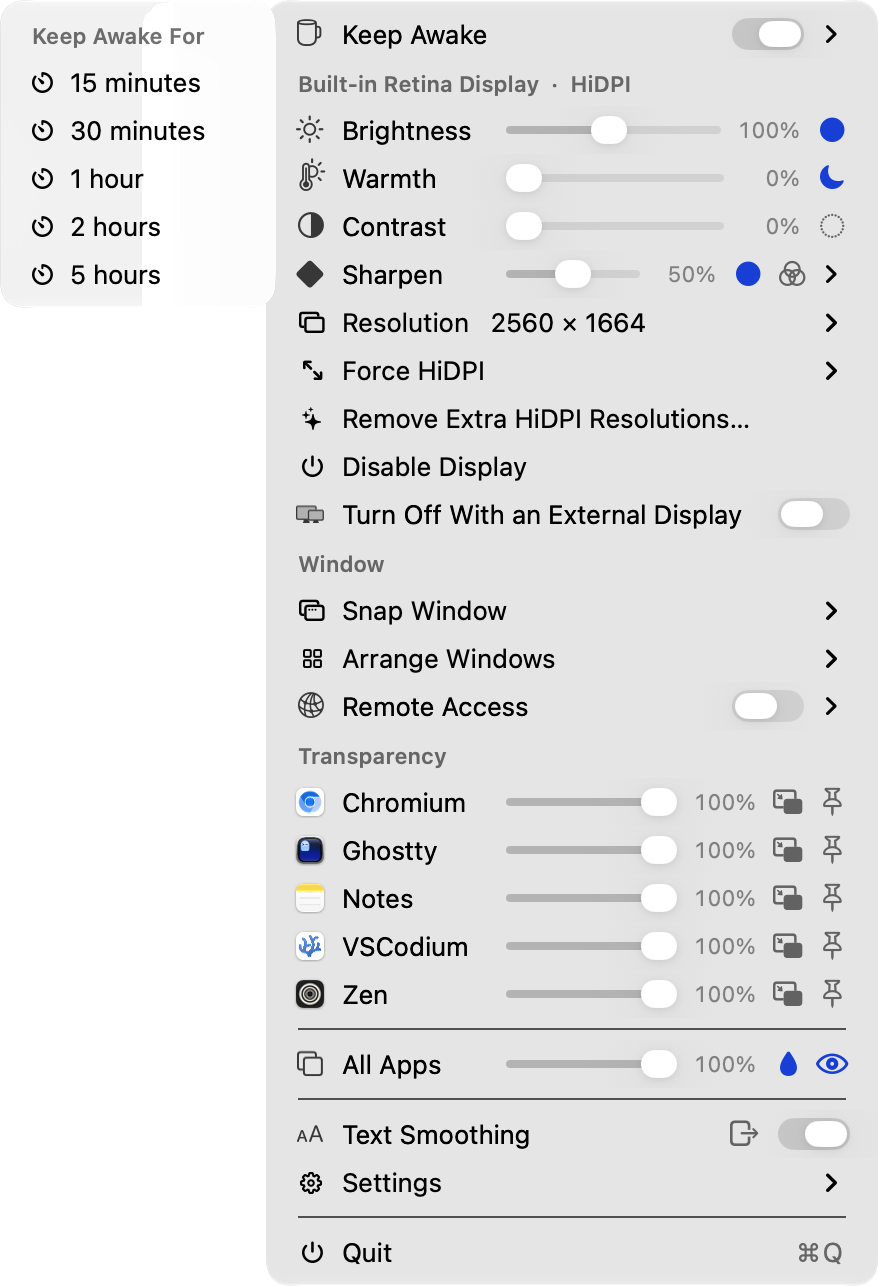
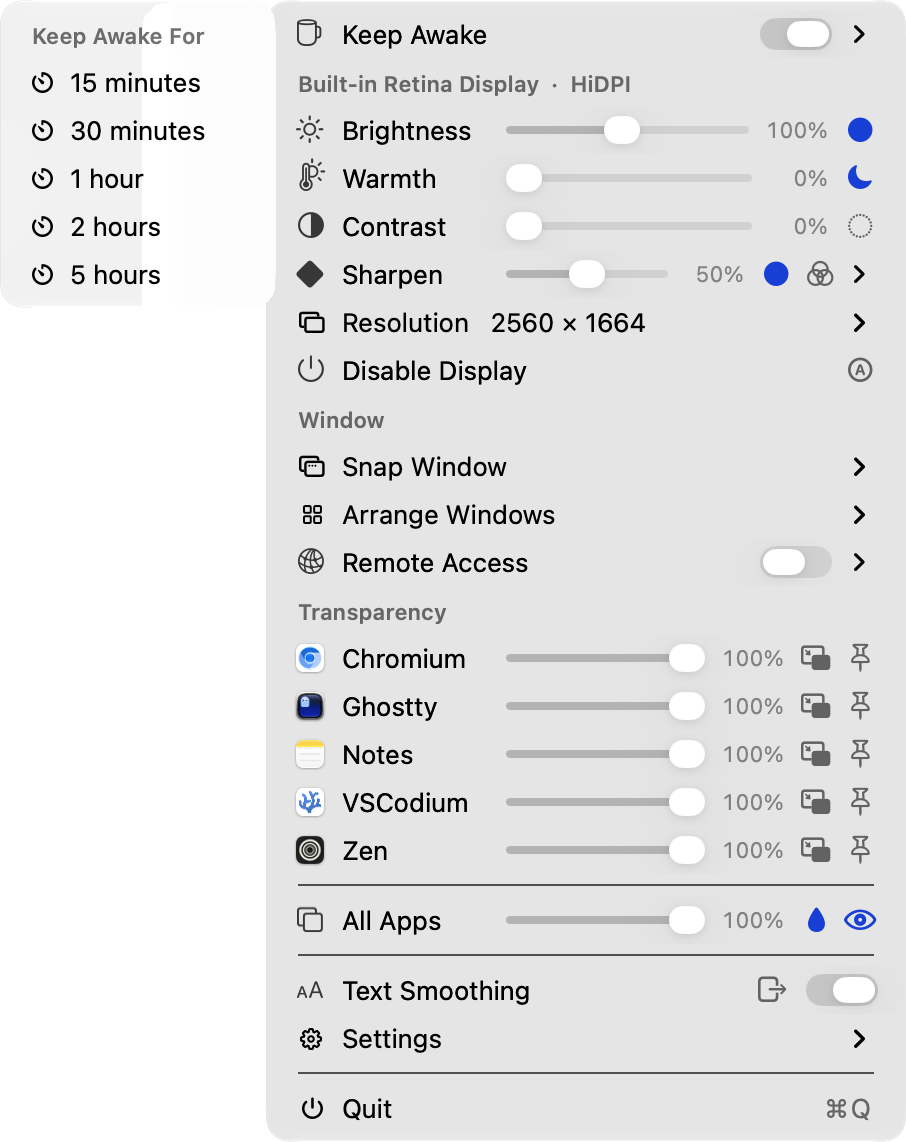
v2.8.20: one Resolution menu, combined Disable Display row

diff --git a/docs/index.html b/docs/index.html
@@ -35,7 +35,7 @@
         "processorRequirements": "Apple Silicon",
         "url": "https://displaydeck.pyxis3.ai/",
         "downloadUrl": "https://github.com/pyxis3-ai/displaydeck/releases/latest",
-        "softwareVersion": "2.8.19",
+        "softwareVersion": "2.8.20",
         "license": "https://opensource.org/licenses/MIT",
         "author": { "@type": "Organization", "name": "PYXIS3" },
         "description": "A tiny macOS menu-bar app: disable screens, force HiDPI, boost brightness past 100%, warm the colors (auto at night), snap and tile windows, make any window transparent or float, reach your Mac from anywhere, and keep it awake.",

diff --git a/src/app/AppDelegate.m b/src/app/AppDelegate.m
@@ -254,6 +254,66 @@ static NSAttributedString *ddColumns(NSArray<NSString *> *cols, NSArray<NSNumber
             initWithString:[cols componentsJoinedByString:@"\t"] attributes:attrs];
 }
 
+// A menu row that behaves like an ordinary item - highlights under the pointer
+// and runs its action on click - while leaving room for a button at its right.
+@interface DDActionRowView : NSView
+@property (nonatomic, strong) NSImageView *iconView;
+@property (nonatomic, strong) NSTextField *label;
+@property (nonatomic, copy) void (^onClick)(void);
+@property (nonatomic) BOOL hovered;
+@end
+
+@implementation DDActionRowView
+
+- (void)updateTrackingAreas {
+    [super updateTrackingAreas];
+    for (NSTrackingArea *area in self.trackingAreas) [self removeTrackingArea:area];
+    [self addTrackingArea:[[NSTrackingArea alloc] initWithRect:NSZeroRect
+        options:NSTrackingMouseEnteredAndExited | NSTrackingActiveAlways | NSTrackingInVisibleRect
+          owner:self userInfo:nil]];
+}
+
+- (void)setHovered:(BOOL)hovered {
+    _hovered = hovered;
+    self.label.textColor = hovered ? NSColor.selectedMenuItemTextColor : NSColor.labelColor;
+    self.iconView.contentTintColor = hovered ? NSColor.selectedMenuItemTextColor : nil;
+    // Keep the row's button readable on the highlight colour.
+    for (NSView *view in self.subviews) {
+        if (![view isKindOfClass:[NSButton class]]) continue;
+        NSButton *button = (NSButton *)view;
+        BOOL on = (button.state == NSControlStateValueOn);
+        NSString *symbol = objc_getAssociatedObject(button, on ? kDDOnSymKey : kDDOffSymKey);
+        if (!symbol) continue;
+        NSColor *color = hovered ? NSColor.selectedMenuItemTextColor
+                                 : (on ? NSColor.controlAccentColor : NSColor.secondaryLabelColor);
+        button.image = ddTintedSymbol(symbol, color);
+    }
+    self.needsDisplay = YES;
+}
+
+- (void)mouseEntered:(NSEvent *)event { (void)event; self.hovered = YES; }
+- (void)mouseExited:(NSEvent *)event  { (void)event; self.hovered = NO; }
+
+- (void)viewDidMoveToWindow {
+    [super viewDidMoveToWindow];
+    self.hovered = NO;
+}
+
+- (void)drawRect:(NSRect)dirtyRect {
+    (void)dirtyRect;
+    if (!self.hovered) return;
+    [NSColor.selectedContentBackgroundColor setFill];
+    [[NSBezierPath bezierPathWithRoundedRect:NSInsetRect(self.bounds, 5, 0) xRadius:8 yRadius:8] fill];
+}
+
+- (void)mouseUp:(NSEvent *)event {
+    (void)event;
+    [self.enclosingMenuItem.menu cancelTracking];
+    if (self.onClick) self.onClick();
+}
+
+@end
+
 @interface AppDelegate () <UNUserNotificationCenterDelegate, NSMenuDelegate>
 @property (nonatomic, strong) NSStatusItem *statusItem;
 @property (nonatomic, strong) NSMenu *mainMenu;
@@ -397,6 +457,8 @@ static NSAttributedString *ddColumns(NSArray<NSString *> *cols, NSArray<NSNumber
 
     self.mainMenu = [[NSMenu alloc] init];
     self.mainMenu.autoenablesItems = NO;
+    // Wide enough that every slider keeps a usable length.
+    self.mainMenu.minimumWidth = 320;
     self.mainMenu.delegate = self;
 
     self.statusItem.button.target = self;
@@ -909,15 +971,16 @@ static NSAttributedString *ddColumns(NSArray<NSString *> *cols, NSArray<NSNumber
         NSArray<DDDisplayMode *> *options =
             [self.displayManager forceHiDPIOptionsForDisplay:display.displayID];
         DDDisplayMode *target = [self.displayManager forcedTargetForDisplay:display.displayID];
-        NSMutableString *title = [NSMutableString stringWithString:@"Force HiDPI"];
+        NSMutableString *title = [NSMutableString stringWithString:@"Resolution"];
         if (target) [title appendFormat:@"   %@", ddLogicalString(target.logicalWidth, target.logicalHeight)];
         NSMenuItem *fh = [[NSMenuItem alloc] initWithTitle:title action:nil keyEquivalent:@""];
-        fh.image = ddSymbol(@"arrow.up.left.and.arrow.down.right");
+        fh.image = ddSymbol(@"rectangle.on.rectangle");
         fh.submenu = [self buildForceHiDPISubmenuForDisplay:display.displayID options:options];
+        [fh.submenu addItem:[NSMenuItem separatorItem]];
+        [fh.submenu addItem:[self actionItem:@"Stop Forced HiDPI"
+                                      action:@selector(stopForcedHiDPI:) displayID:display.displayID
+                                      symbol:@"arrow.uturn.backward"]];
         [menu addItem:fh];
-        [menu addItem:[self actionItem:@"Stop Forced HiDPI"
-                                action:@selector(stopForcedHiDPI:) displayID:display.displayID
-                                symbol:@"arrow.uturn.backward"]];
         return;
     }
     if (!display.isActive) {
@@ -948,31 +1011,59 @@ static NSAttributedString *ddColumns(NSArray<NSString *> *cols, NSArray<NSNumber
         res.submenu = [self buildModesSubmenuForDisplay:display.displayID modes:modes];
         [menu addItem:res];
     }
-    if (NSClassFromString(@"CGVirtualDisplay") != nil) {
-        NSArray<DDDisplayMode *> *options =
-            [self.displayManager forceHiDPIOptionsForDisplay:display.displayID];
-        if (options.count > 0) {
-            NSMenuItem *fh = [[NSMenuItem alloc] initWithTitle:@"Force HiDPI" action:nil keyEquivalent:@""];
-            fh.image = ddSymbol(@"arrow.up.left.and.arrow.down.right");
-            fh.submenu = [self buildForceHiDPISubmenuForDisplay:display.displayID options:options];
-            [menu addItem:fh];
-        }
-    }
-
-    BOOL installed = [[HiDPIInjector shared] isInstalledForDisplay:display.displayID];
-    [menu addItem:[self actionItem:(installed
-                                    ? @"Remove Extra HiDPI Resolutions\u2026"
-                                    : @"Install Extra HiDPI Resolutions\u2026")
-                            action:(installed ? @selector(uninstallCrispHiDPI:)
-                                              : @selector(installCrispHiDPI:))
-                         displayID:display.displayID
-                            symbol:@"sparkles"]];
-    [menu addItem:[self actionItem:@"Disable Display"
-                            action:@selector(disableDisplay:) displayID:display.displayID
-                            symbol:@"power"]];
     if (display.isBuiltIn) {
-        [self addInlineSwitch:menu title:@"Turn Off With an External Display" icon:@"display.2" key:kAutoManage];
+        // One row for both: click it to turn the display off now, or use its
+        // button to have that happen whenever an external display connects.
+        NSButton *automatic = [self prefToggle:kAutoManage symbol:@"a.circle" onSymbol:@"a.circle.fill"
+                                       tooltip:@"Turn off automatically when an external display connects"];
+        CGDirectDisplayID did = display.displayID;
+        __weak __typeof(self) weakSelf = self;
+        [menu addItem:[self actionRow:@"Disable Display" icon:@"power" accessory:automatic onClick:^{
+            NSMenuItem *carrier = [[NSMenuItem alloc] init];
+            carrier.representedObject = @(did);
+            dispatch_async(dispatch_get_main_queue(), ^{ [weakSelf disableDisplay:carrier]; });
+        }]];
+    } else {
+        [menu addItem:[self actionItem:@"Disable Display"
+                                action:@selector(disableDisplay:) displayID:display.displayID
+                                symbol:@"power"]];
     }
+}
+
+- (NSMenuItem *)actionRow:(NSString *)label icon:(NSString *)symbol
+                accessory:(NSButton *)accessory onClick:(void (^)(void))onClick {
+    DDActionRowView *row = [[DDActionRowView alloc] initWithFrame:NSMakeRect(0, 0, kSliderRowWidth, kRowHeight)];
+    row.onClick = onClick;
+
+    row.iconView = [NSImageView imageViewWithImage:ddSymbol(symbol)];
+    row.iconView.imageScaling = NSImageScaleProportionallyDown;
+    row.iconView.translatesAutoresizingMaskIntoConstraints = NO;
+    [row addSubview:row.iconView];
+
+    row.label = [NSTextField labelWithString:label];
+    row.label.font = [NSFont menuFontOfSize:13];
+    row.label.translatesAutoresizingMaskIntoConstraints = NO;
+    [row addSubview:row.label];
+    [row addSubview:accessory];
+
+    [NSLayoutConstraint activateConstraints:@[
+        [row.heightAnchor constraintEqualToConstant:kRowHeight],
+        [row.iconView.leadingAnchor constraintEqualToAnchor:row.leadingAnchor constant:14],
+        [row.iconView.centerYAnchor constraintEqualToAnchor:row.centerYAnchor],
+        [row.iconView.widthAnchor constraintEqualToConstant:16],
+        [row.iconView.heightAnchor constraintEqualToConstant:16],
+        [row.label.leadingAnchor constraintEqualToAnchor:row.iconView.trailingAnchor constant:8],
+        [row.label.centerYAnchor constraintEqualToAnchor:row.centerYAnchor],
+        [accessory.trailingAnchor constraintEqualToAnchor:row.trailingAnchor constant:-kRowEdgeInset],
+        [accessory.centerYAnchor constraintEqualToAnchor:row.centerYAnchor],
+        [accessory.widthAnchor constraintEqualToConstant:kAccessoryWidth],
+    ]];
+
+    row.autoresizingMask = NSViewWidthSizable;
+    NSMenuItem *item = [[NSMenuItem alloc] initWithTitle:label action:nil keyEquivalent:@""];
+    item.tag = kSliderItemTag;
+    item.view = row;
+    return item;
 }
 
 - (void)addBrightnessWarmthToMenu:(NSMenu *)menu display:(DDDisplayInfo *)display {
@@ -1156,16 +1247,6 @@ static NSAttributedString *ddColumns(NSArray<NSString *> *cols, NSArray<NSNumber
     [menu addItem:all];
 }
 
-// A setting shown where it applies, as a switch. (A checkmark item here would
-// make the menu reserve a checkmark column and push every plain row sideways.)
-- (void)addInlineSwitch:(NSMenu *)menu title:(NSString *)title icon:(NSString *)symbol key:(NSString *)key {
-    NSMenuItem *item = [self switchRow:title icon:symbol on:[self pref:key]
-                                action:@selector(prefSwitchToggled:) width:kSliderRowWidth];
-    for (NSView *view in item.view.subviews)
-        if ([view isKindOfClass:[NSSwitch class]]) view.identifier = key;
-    [menu addItem:item];
-}
-
 // A small on/off button for a setting, for a row's button slots.
 - (NSButton *)prefToggle:(NSString *)key symbol:(NSString *)off onSymbol:(NSString *)on tooltip:(NSString *)tooltip {
     NSButton *button = [self rowToggleWithSymbol:off onSymbol:on state:[self pref:key] tag:0
@@ -1178,13 +1259,11 @@ static NSAttributedString *ddColumns(NSArray<NSString *> *cols, NSArray<NSNumber
     BOOL on = (sender.state == NSControlStateValueOn);
     [NSUserDefaults.standardUserDefaults setBool:on forKey:sender.identifier];
     ddSetToggle(sender, on);
+    if ([sender.superview isKindOfClass:[DDActionRowView class]]) {
+        DDActionRowView *row = (DDActionRowView *)sender.superview;
+        row.hovered = row.hovered;
+    }
     [self prefChanged:sender.identifier];
-}
-
-- (void)prefSwitchToggled:(NSSwitch *)sender {
-    NSString *key = sender.identifier;
-    [NSUserDefaults.standardUserDefaults setBool:(sender.state == NSControlStateValueOn) forKey:key];
-    [self prefChanged:key];
 }
 
 - (NSButton *)rowToggleWithSymbol:(NSString *)offSymbol
@@ -1684,11 +1763,36 @@ static NSAttributedString *ddColumns(NSArray<NSString *> *cols, NSArray<NSNumber
         [submenu addItem:item];
     }
 
+    // Sizes the panel does not offer itself, reached by forcing HiDPI through a
+    // virtual display. Same list, so there is one place to pick a size.
+    NSArray<DDDisplayMode *> *forceOptions = NSClassFromString(@"CGVirtualDisplay")
+        ? [self.displayManager forceHiDPIOptionsForDisplay:displayID] : @[];
+    if (forceOptions.count > 0) {
+        [submenu addItem:[NSMenuItem sectionHeaderWithTitle:@"Force HiDPI"]];
+        for (DDDisplayMode *mode in forceOptions) {
+            NSMenuItem *item = [[NSMenuItem alloc] initWithTitle:@""
+                action:@selector(forceHiDPIAtMode:) keyEquivalent:@""];
+            item.target = self;
+            item.representedObject = @{ @"displayID": @(displayID), @"mode": mode };
+            item.attributedTitle = ddColumns(@[ddLogicalString(mode.logicalWidth, mode.logicalHeight), @"Forced",
+                                               ddRateString(mode.refreshRate, @"-")],
+                                             @[@(kModeTabType), @(kModeTabRate)], font, nil);
+            [submenu addItem:item];
+        }
+    }
+
     [submenu addItem:[NSMenuItem separatorItem]];
     [self addLabelToMenu:submenu title:@"★ = panel-native (crispest)"];
     [self addLabelToMenu:submenu title:kLargerSizesHint];
+    if (forceOptions.count > 0)
+        [self addLabelToMenu:submenu title:@"Forced sizes come back after a restart"];
     [submenu addItem:[NSMenuItem separatorItem]];
     [submenu addItem:[self checkItemWithTitle:@"Show Non-HiDPI Resolutions" key:kShowResolutions symbol:@"eye"]];
+    BOOL installed = [[HiDPIInjector shared] isInstalledForDisplay:displayID];
+    [submenu addItem:[self actionItem:(installed ? @"Remove Extra HiDPI Resolutions\u2026"
+                                                 : @"Install Extra HiDPI Resolutions\u2026")
+                               action:(installed ? @selector(uninstallCrispHiDPI:) : @selector(installCrispHiDPI:))
+                            displayID:displayID symbol:@"sparkles"]];
 
     return submenu;
 }

diff --git a/README.md b/README.md
@@ -7,7 +7,7 @@
 
 Disable & enable screens, Force HiDPI, brightness with EDR boost, color warmth (with auto-night), window tiling/snapping, transparency, blur, keep-on-top & picture-in-picture, keep-awake, remote access.
 
-[![Release](https://img.shields.io/badge/release-v2.8.19-2ea44f?style=flat-square)](https://github.com/pyxis3-ai/displaydeck/releases/latest)
+[![Release](https://img.shields.io/badge/release-v2.8.20-2ea44f?style=flat-square)](https://github.com/pyxis3-ai/displaydeck/releases/latest)
 [![License](https://img.shields.io/badge/license-MIT-3da639?style=flat-square)](LICENSE)
 [![Platform](https://img.shields.io/badge/macOS-14%2B-000?style=flat-square&logo=apple&logoColor=white)](#requirements)
 [![Apple Silicon](https://img.shields.io/badge/Apple_Silicon-555?style=flat-square)](#requirements)
@@ -75,14 +75,13 @@ The menu - a **Keep Awake** row with an inline toggle, per-display **Brightness*
 
 <p align="center"><img src="assets/screenshots/arrange.png" width="430" alt="Arrange Windows submenu - Grid 2×2, Centered over Grid, Cycle Layout, Promote to Main, Center Next/Previous, Restore" /></p>
 
-Submenus - Keep-Awake durations, the curated **Resolution** picker (= panel-native), the **Force HiDPI** "More Space" tier, and the app-wide **Settings** (everything else is a switch next to the thing it controls):
+Submenus - Keep-Awake durations, the single **Resolution** picker (★ = panel-native, with the **Force HiDPI** "More Space" sizes in the same list), and the app-wide **Settings** (everything else is a switch next to the thing it controls):
 
 <p align="center">
   <img src="assets/screenshots/keepawake.png" width="330" alt="Keep Awake durations" />
   <img src="assets/screenshots/resolution.png" width="330" alt="Resolution picker" />
 </p>
 <p align="center">
-  <img src="assets/screenshots/forcehidpi.png" width="330" alt="Force HiDPI sizes" />
   <img src="assets/screenshots/settings.png" width="330" alt="Settings" />
 </p>
 

diff --git a/CHANGELOG.md b/CHANGELOG.md
@@ -2,6 +2,13 @@
 
 All notable changes to DisplayDeck are documented here. Format follows [Keep a Changelog](https://keepachangelog.com); versions follow [SemVer](https://semver.org).
 
+## [2.8.20] - 2026-10-10
+
+### Changed
+
+- **One Resolution menu for everything.** The Force HiDPI sizes are listed in the Resolution menu under the panel's own sizes, and Install/Remove Extra HiDPI Resolutions and Stop Forced HiDPI live there too. The separate Force HiDPI and Install rows are gone from the main menu.
+- **Disable Display and its automatic option are one row.** Click the row to turn the built-in display off now; its Ⓐ button turns it off automatically whenever an external display connects.
+
 ## [2.8.19] - 2026-10-10
 
 ### Fixed
